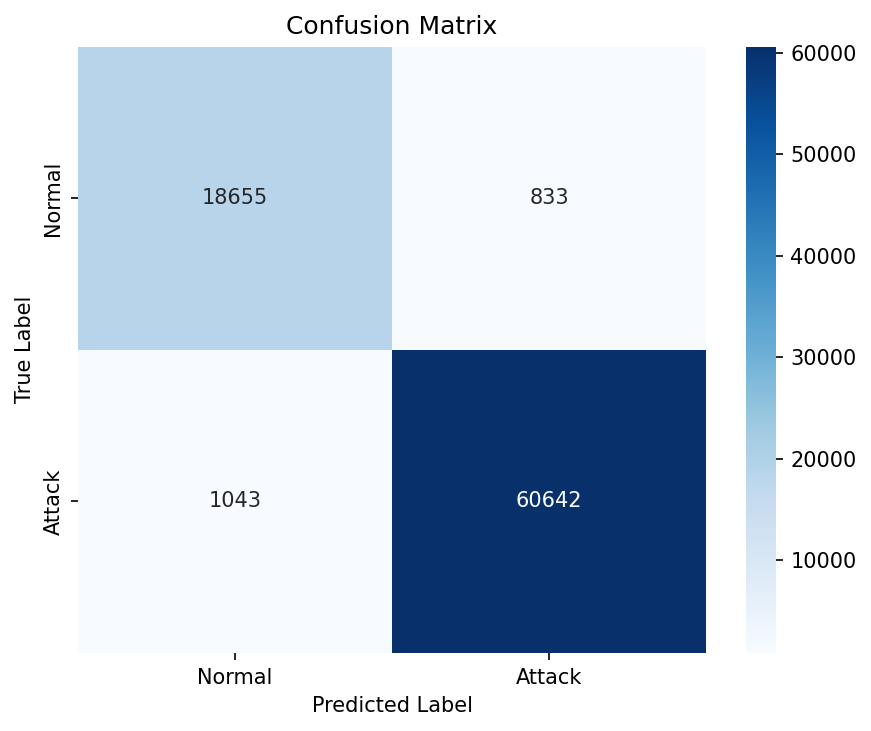
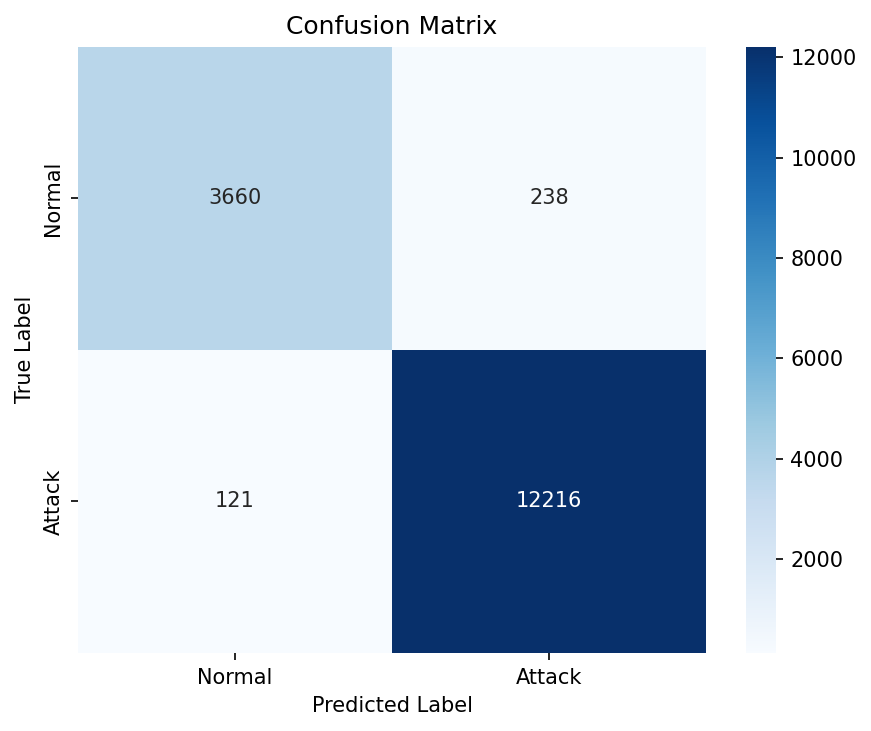
feat: implement modular training, feature selection, and evaluation pipelines for NIDS classification

diff --git a/main.py b/main.py
@@ -1,7 +1,6 @@
 import os
-from sklearn.model_selection import train_test_split
 
-from src.preprocessing import load_and_clean_data, encode_features, scale_features, apply_smote
+from src.preprocessing import load_and_split_data, encode_features, scale_features, apply_smote
 from src.feature_selection import select_features
 from src.model import build_model
 from src.train import compile_and_train
@@ -16,30 +15,20 @@ from src.evaluate import (
 
 
 DATA_DIR = 'dataset'
-TRAIN_PATH = os.path.join(DATA_DIR, 'UNSW_NB15_training-set.csv')
-TEST_PATH = os.path.join(DATA_DIR, 'UNSW_NB15_testing-set.csv')
+DATA_PATH = os.path.join(DATA_DIR, 'UNSW_NB15_testing-set.csv')
 
 
 def main():
-    """Orchestrate the full NIDS pipeline: load, preprocess, feature selection, train, evaluate."""
-    train_df, test_df = load_and_clean_data(TRAIN_PATH, TEST_PATH)
+    """Orchestrate the full NIDS pipeline using a single dataset (80/20 split)."""
+    train_df, test_df = load_and_split_data(DATA_PATH, test_size=0.2)
     X_train, X_test, y_train, y_test = encode_features(train_df, test_df)
     feature_names = list(X_train.columns)
 
     # Scale features (fit on full train, transform test)
     X_train_scaled, X_test_scaled, scaler = scale_features(X_train, X_test)
 
-    # Split BEFORE SMOTE — val set must contain real (not synthetic) samples
-    # to produce reliable validation metrics during training
-    X_train_raw, X_val_raw, y_train_raw, y_val_raw = train_test_split(
-        X_train_scaled, y_train,
-        test_size=0.33,
-        random_state=42,
-        stratify=y_train
-    )
-
-    # Apply SMOTE ONLY on the training split (67%), never on val/test
-    X_train_balanced, y_train_balanced = apply_smote(X_train_raw, y_train_raw)
+    # Apply SMOTE on the full training data
+    X_train_balanced, y_train_balanced = apply_smote(X_train_scaled, y_train)
 
     # Feature selection (using balanced training data)
     _, selected_features, etc = select_features(
@@ -49,12 +38,11 @@ def main():
     # Filter features for all sets
     indices = [feature_names.index(name) for name in selected_features]
     X_train_final = X_train_balanced[:, indices]
-    X_val_final = X_val_raw[:, indices]
     X_test_final = X_test_scaled[:, indices]
 
-    # Train — validation_data uses real pre-SMOTE samples
+    # Train — validation_split=0.33 is handled inside compile_and_train
     model = build_model(X_train_final.shape[1])
-    history = compile_and_train(model, X_train_final, y_train_balanced, X_val_final, y_val_raw)
+    history = compile_and_train(model, X_train_final, y_train_balanced)
     results, y_pred = evaluate(model, X_test_final, y_test)
 
     print_metrics_table(results)
@@ -65,7 +53,7 @@ def main():
     importances_dict = dict(zip(feature_names, etc.feature_importances_))
     plot_feature_importance(selected_features, importances_dict)
 
-    save_report_txt(results, selected_features, importances_dict)
+    save_report_txt(results, selected_features, importances_dict, model=model)
 
     os.makedirs('models', exist_ok=True)
     model.save(os.path.join('models', 'nids_model.h5'))

diff --git a/src/preprocessing.py b/src/preprocessing.py
@@ -1,6 +1,7 @@
 import numpy as np
 import pandas as pd
-from sklearn.preprocessing import StandardScaler
+from sklearn.model_selection import train_test_split
+from sklearn.preprocessing import MinMaxScaler
 from imblearn.over_sampling import SMOTE
 
 
@@ -13,6 +14,25 @@ def load_and_clean_data(train_path, test_path):
     train_df = train_df.dropna()
     test_df['service'] = test_df['service'].replace('-', np.nan)
     test_df = test_df.dropna()
+
+    return train_df, test_df
+
+
+def load_and_split_data(data_path, test_size=0.2, random_state=42):
+    """Load a single CSV dataset, clean it, then split into train/test sets."""
+    df = pd.read_csv(data_path)
+
+    df['service'] = df['service'].replace('-', np.nan)
+    df = df.dropna()
+
+    train_df, test_df = train_test_split(
+        df, test_size=test_size, random_state=random_state, stratify=df['label']
+    )
+    train_df = train_df.reset_index(drop=True)
+    test_df = test_df.reset_index(drop=True)
+
+    print(f'Dataset loaded: {len(df)} rows  ->  train={len(train_df)}, test={len(test_df)}')
+    print(f'Label distribution (train): {dict(train_df["label"].value_counts().sort_index())}')
 
     return train_df, test_df
 
@@ -30,20 +50,15 @@ def encode_features(train_df, test_df):
     y_train = train_encoded['label'].values
     y_test = test_encoded['label'].values
 
-    X_train = train_encoded.drop(columns=['attack_cat', 'label'])
-    X_test = test_encoded.drop(columns=['attack_cat', 'label'])
-
-    if 'id' in X_train.columns:
-        X_train = X_train.drop(columns=['id'])
-    if 'id' in X_test.columns:
-        X_test = X_test.drop(columns=['id'])
+    X_train = train_encoded.drop(columns=['attack_cat', 'label', 'id'], errors='ignore')
+    X_test = test_encoded.drop(columns=['attack_cat', 'label', 'id'], errors='ignore')
 
     return X_train, X_test, y_train, y_test
 
 
 def scale_features(X_train, X_test):
-    """Standardize numerical features using StandardScaler (zero mean, unit variance)."""
-    scaler = StandardScaler()
+    """Normalize numerical features using MinMaxScaler (range [0,1])."""
+    scaler = MinMaxScaler()
     X_train_scaled = scaler.fit_transform(X_train)
     X_test_scaled = scaler.transform(X_test)
     return X_train_scaled, X_test_scaled, scaler

diff --git a/compare_cnn.py b/compare_cnn.py
@@ -1,5 +1,6 @@
 import os
 import numpy as np
+from sklearn.model_selection import train_test_split
 
 from src.preprocessing import load_and_clean_data, encode_features, scale_features, apply_smote
 from src.model import build_cnn_model
@@ -30,29 +31,20 @@ def main():
     # 2. Scale features (fit on full train, transform test)
     X_train_scaled, X_test_scaled, scaler = scale_features(X_train, X_test)
 
-    # 3. Split BEFORE SMOTE — val must be real data, not synthetic
-    X_train_raw, X_val_raw, y_train_raw, y_val_raw = train_test_split(
-        X_train_scaled, y_train,
-        test_size=0.33,
-        random_state=42,
-        stratify=y_train
-    )
-
-    # 4. Apply SMOTE ONLY on the 67% training split
-    X_train_balanced, y_train_balanced = apply_smote(X_train_raw, y_train_raw)
+    # 4. Apply SMOTE on the full training set
+    X_train_balanced, y_train_balanced = apply_smote(X_train_scaled, y_train)
 
     # 5. Reshape for 1D-CNN: (samples, features, 1)
     X_train_cnn = np.expand_dims(X_train_balanced, axis=-1)
-    X_val_cnn = np.expand_dims(X_val_raw, axis=-1)
     X_test_cnn = np.expand_dims(X_test_scaled, axis=-1)
 
     # 6. Build model
     input_dim = X_train_cnn.shape[1]
     model = build_cnn_model(input_dim)
 
-    # 7. Train — validation_data uses real pre-SMOTE samples
+    # 7. Train — validation_split=0.33 is handled inside compile_and_train
     print(f"Training 1D-CNN with {input_dim} features...")
-    history = compile_and_train(model, X_train_cnn, y_train_balanced, X_val_cnn, y_val_raw)
+    history = compile_and_train(model, X_train_cnn, y_train_balanced)
 
 
     # 7. Evaluate on test set

diff --git a/src/model.py b/src/model.py
@@ -7,16 +7,32 @@ from tensorflow.keras.regularizers import l2
 
 
 def build_model(input_dim=8):
-    """Build a Sequential DNN: 400-800-800-400, ReLU, Dropout 0.2, L2 on first layer, Softmax output."""
-    model = Sequential([
-        Dense(400, activation='relu', kernel_regularizer=l2(1e-4), input_shape=(input_dim,)),
-        Dense(800, activation='relu'),
-        Dropout(0.2), 
-        Dense(800, activation='relu'),
-        Dropout(0.2),
-        Dense(400, activation='relu'),
-        Dense(2, activation='softmax')
-    ])
+    """Build a Sequential DNN matching the pseudo-code in rule.md (Section 10) syntax:
+    - model.add(Dense(400, L2))
+    - model.add(Dense(800))
+    - model.add(Dropout(0.2))
+    - model.add(Dense(800))
+    - model.add(Dropout(0.2))
+    - model.add(Dense(400))
+    - model.add(Dense(2, softmax))
+    """
+    model = Sequential()
+    
+    # 1. Add input and hidden layers
+    # ONLY the first layer has L2 regularization as per pseudo-code
+    model.add(Dense(units=400, input_dim=input_dim, activation='relu', kernel_regularizer=l2(1e-4)))
+    
+    model.add(Dense(units=800, activation='relu'))
+    model.add(Dropout(0.2))
+    
+    model.add(Dense(units=800, activation='relu'))
+    model.add(Dropout(0.2))
+    
+    model.add(Dense(units=400, activation='relu'))
+    
+    # 2. Add output layer
+    model.add(Dense(units=2, activation='softmax'))
+    
     return model
 
 

diff --git a/src/evaluate.py b/src/evaluate.py
@@ -1,3 +1,4 @@
+import io
 import numpy as np
 import matplotlib
 matplotlib.use('Agg')
@@ -98,8 +99,8 @@ def plot_feature_importance(selected_features, importances_dict, save_path=None)
     print(f'Saved: {path}')
 
 
-def save_report_txt(results, selected_features, importances_dict):
-    """Save evaluation metrics, confusion matrix, and selected features to report.txt."""
+def save_report_txt(results, selected_features, importances_dict, model=None):
+    """Save evaluation metrics, confusion matrix, selected features, and model summary to report.txt."""
     cm = results['confusion_matrix']
     lines = []
     lines.append('=' * 50)
@@ -122,6 +123,15 @@ def save_report_txt(results, selected_features, importances_dict):
         lines.append(f'  {feat}: {importances_dict[feat]:.6f}')
     lines.append('')
     lines.append('=' * 50)
+
+    # Model summary (optional)
+    if model is not None:
+        buf = io.StringIO()
+        model.summary(print_fn=lambda x: buf.write(x + '\n'))
+        lines.append('')
+        lines.append('--- Model Summary ---')
+        lines.append(buf.getvalue())
+        lines.append('=' * 50)
 
     path = f'{REPORTS_DIR}/report.txt'
     with open(path, 'w', encoding='utf-8') as f:

diff --git a/src/train.py b/src/train.py
@@ -2,14 +2,12 @@ from tensorflow.keras.optimizers import Adam
 from tensorflow.keras.utils import to_categorical
 
 
-def compile_and_train(model, X_train, y_train, X_val, y_val):
+def compile_and_train(model, X_train, y_train):
     """Compile with Adam (lr=0.001) and train for 100 epochs, batch size 50.
-
-    Validation is performed on real (pre-SMOTE) data passed as validation_data,
-    not on the SMOTE-balanced training set, to avoid misleading validation metrics.
+    
+    Uses validation_split=0.33 as specified in the pseudo-code of rule.md.
     """
     y_train_cat = to_categorical(y_train, num_classes=2)
-    y_val_cat = to_categorical(y_val, num_classes=2)
 
     optimizer = Adam(learning_rate=0.001)
 
@@ -21,7 +19,7 @@ def compile_and_train(model, X_train, y_train, X_val, y_val):
 
     history = model.fit(
         X_train, y_train_cat,
-        validation_data=(X_val, y_val_cat),
+        validation_split=0.33,
         epochs=100,
         batch_size=50,
         verbose=1

diff --git a/src/feature_selection.py b/src/feature_selection.py
@@ -1,6 +1,6 @@
 from sklearn.ensemble import ExtraTreesClassifier
 
-REQUIRED_FEATURES = ['sttl', 'dttl', 'ct_state_ttl', 'dload', 'swin', 'ct_srv_dst']
+REQUIRED_FEATURES = ['sttl', 'dttl', 'ct_state_ttl', 'dload', 'state', 'swin', 'ct_srv_dst']
 
 
 def select_features(X_train, y_train, feature_names):
